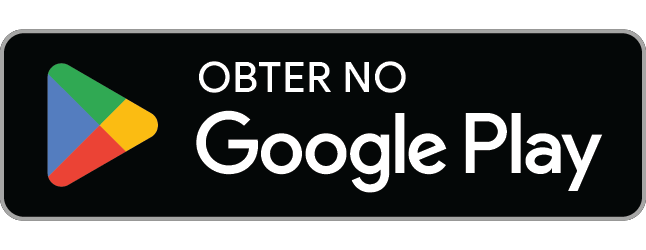
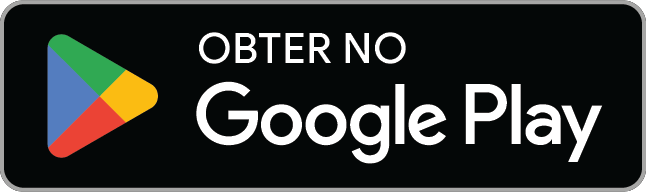
fix(web): show the Google Play badge at full size in the tutorial
Google's badge PNG carries 29px of transparent space above and below the
badge (23% of its height), so at the install step's 48px the visible
badge was about 37px tall, smaller than the App Store's. The empty rows
are trimmed (the artwork is untouched; 646x250 → 646x192), and both
badges now stand 56px tall in the tutorial: App Store 168x56, Google Play
188x56, so Play is no smaller than the other badge, as Google asks. The
one-time prompt keeps its 40px, now true for both badges.

diff --git a/src/app/components/onboarding/onboarding.component.spec.ts b/src/app/components/onboarding/onboarding.component.spec.ts
@@ -448,6 +448,15 @@ describe("OnboardingComponent", () => {
       ).toContain("foi instalada")
     })
 
+    // Large enough to tap and read in the dialog; Apple's least is 40px.
+    it("shows the store's badge 56px tall", () => {
+      create()
+      goToInstallStep()
+
+      const badge = storeButton()?.querySelector("img") as HTMLImageElement
+      expect(getComputedStyle(badge).height).toBe("56px")
+    })
+
     it("sends iPhone and iPad visitors to the App Store", () => {
       pwa.platform = "ios"
       pwa.browser = "safari"

diff --git a/src/app/components/onboarding/onboarding.component.css b/src/app/components/onboarding/onboarding.component.css
@@ -166,8 +166,9 @@
   opacity: 0.5;
 }
 
-/* The stores' badges, unaltered: Apple's must stand at least 40px tall, with
-   a quarter of its height clear around it. */
+/* The stores' badges, unaltered: Apple's must stand at least 40px tall and
+   Google's no smaller than the others, each with a quarter of its height
+   clear around it. */
 .store-badge {
   display: block;
   width: fit-content;
@@ -178,7 +179,7 @@
 .store-badge img {
   display: block;
   width: auto;
-  height: 48px;
+  height: 56px;
 }
 
 .store-badge:focus-visible {

diff --git a/src/app/components/onboarding/onboarding.component.html b/src/app/components/onboarding/onboarding.component.html
@@ -38,7 +38,7 @@
 
     @if (store) {
     <a class="store-badge" [href]="store.url" target="_blank" rel="noopener" (click)="onStoreClick(store)">
-      <img [src]="store.badge" [alt]="store.label" height="48">
+      <img [src]="store.badge" [alt]="store.label" height="56">
     </a>
     <!-- The website's own install stays on offer, a tap away. -->
     <details class="web-install">
